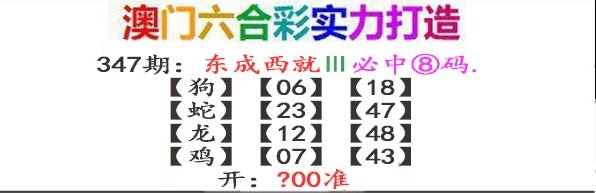
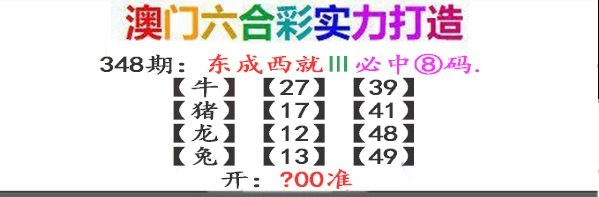
Update:  2023.12.14 14:21:11

diff --git a/Script/Src/xjw/杀两肖图.js b/Script/Src/xjw/杀两肖图.js
@@ -68,8 +68,8 @@ document.writeln("					<td height=\'40\' style=\'box-sizing: border-box;\'>");
 document.writeln("			<p align=\'center\' style=\'box-sizing: border-box; padding: 0px; margin: 0px;\'>");
 document.writeln("			<font size=\'4\' style=\'margin: 0px; padding: 0px;\'>");
 document.writeln("			348期玄机网禁两肖<font color=\'#FF0000\'>【鼠牛】</font>特开<font color=\'#0000FF\'>？00</font>准<br>");
-document.writeln("			348期澳门杀两肖图<font color=\'#FF0000\'>【更新】</font>特开<font color=\'#0000FF\'>？00</font>准<br>");
-document.writeln("			348期澳门图库禁肖<font color=\'#FF0000\'>【更新】</font>特开<font color=\'#0000FF\'>？00</font>准</font></font></p></td>");
+document.writeln("			348期澳门杀两肖图<font color=\'#FF0000\'>【鸡鼠】</font>特开<font color=\'#0000FF\'>？00</font>准<br>");
+document.writeln("			348期澳门图库禁肖<font color=\'#FF0000\'>【龙蛇】</font>特开<font color=\'#0000FF\'>？00</font>准</font></font></p></td>");
 document.writeln("		</tr>");
 document.writeln("<!--推广-->");
 document.writeln("				<tr style=\'box-sizing: border-box;\'>");
